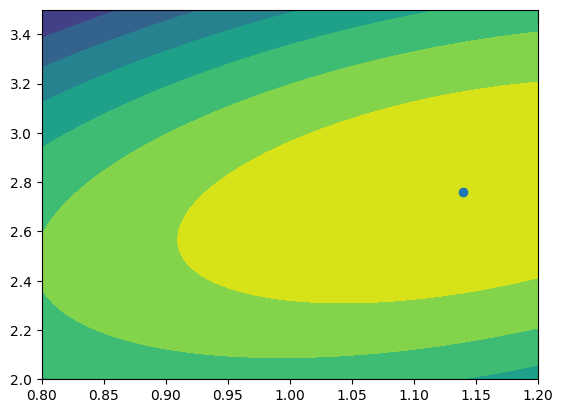
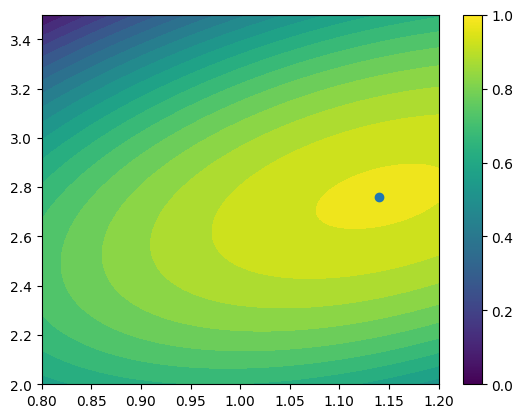
chore: add scipy optimize

diff --git a/docs/04_rsm.v2.md b/docs/04_rsm.v2.md
@@ -438,8 +438,9 @@ print(x[i], y[i])
 
 
 ```python
-plt.contourf(x0_values, x1_values, y.reshape(-1, x0_values.shape[0]))
-plt.scatter(*x[i]);
+plt.contourf(x0_values, x1_values, y.reshape(-1, x0_values.shape[0]), levels=20)
+plt.scatter(*x[i])
+plt.colorbar();
 ```
 
 
@@ -474,5 +475,37 @@ aggregate_measurement[0] - 2 * standard_error[0], aggregate_measurement[
 
 
     (0.32309596091466963, 0.41693173841779907)
+
+
+
+
+```python
+from scipy.optimize import minimize
+```
+
+
+```python
+def objective(args):
+    # The negative is to minimize the value, so we are finding the max values.
+    return -p.predict(PolynomialFeatures(degree=2).fit_transform(args.reshape(-1, 2)))
+
+
+minimize(objective, (0, 0))
+```
+
+
+
+
+      message: Optimization terminated successfully.
+      success: True
+       status: 0
+          fun: -0.39273874534807307
+            x: [ 1.145e+00  2.763e+00]
+          nit: 5
+          jac: [ 6.557e-07  2.965e-06]
+     hess_inv: [[ 8.385e-01  6.888e-01]
+                [ 6.888e-01  3.080e+00]]
+         nfev: 18
+         njev: 6
 
 
